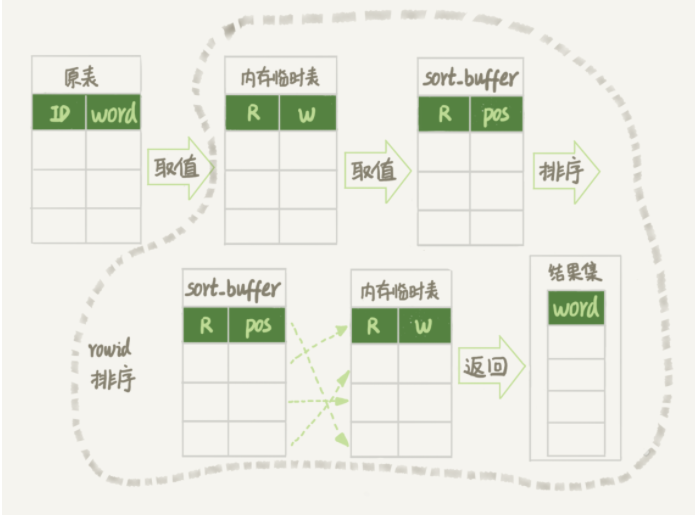
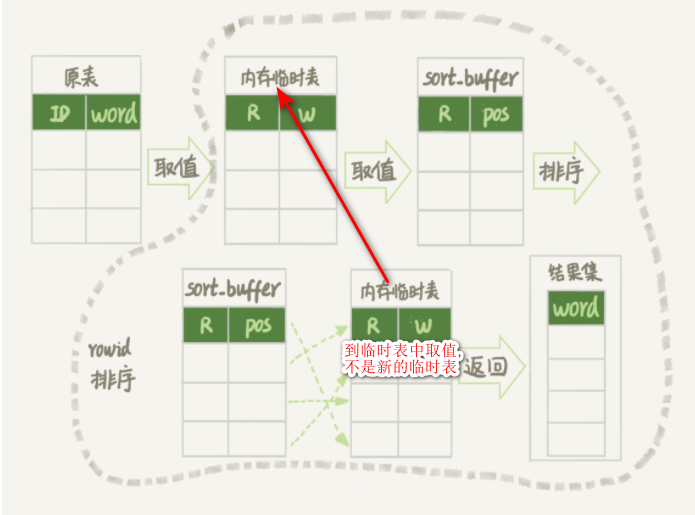
mysql/key: add group by flow and opt practice

Changed region(s): [[0.4835, 0.6524, 0.695, 0.7456], [0.423, 0.2175, 0.5741, 0.5592], [0.3928, 0.1553, 0.423, 0.2175]]

diff --git a/language/mysql/v2/keyflow/08.limit.md b/language/mysql/v2/keyflow/08.limit.md
@@ -3,17 +3,17 @@
 1. 原因
 
    - limit 100000, 20 的意思扫描满足条件的 100020 行(回表的){**可以查看 sql 的读取数据页的数量**}, 扔掉前面的 100000 行, 返回最后的 20 行
-   - 大量的时间都花费在随机 IO[回表]上: 尤其查询偏移大于**10 万**以后查询时间急剧增加
+   - 大量的时间都花费在随机 io[回表]上: 尤其查询偏移大于**10 万**以后查询时间急剧增加
 
    ```sql
    -- limit 大数: 慢 & 污染buffer pool
    select index_name,count(*)
-   from information_schema.INNODB_BUFFER_PAGE
-   where INDEX_NAME in('val','primary') and TABLE_NAME like '%test%'
+   from information_schema.innodb_buffer_page
+   where index_name in('val','primary') and table_name like '%test%'
    group by index_name;
    ```
 
-2. 解决方案: `覆盖索引-数据ID` **利用延迟关联或者子查询优化超多分页场景**
+2. 解决方案: `覆盖索引-数据id` **利用延迟关联或者子查询优化超多分页场景**
 
    - limit 默认会加载所有数据并过滤掉前面的 10w 行, 只取 20 行: 不是很好
    - solution01: 使用条件过滤{将 limit 转换为过滤条件}
@@ -24,29 +24,29 @@
 
    ```sql
    -- 慢 & 加载了很多热点不是很高的数据页到buffer pool, 会造成buffer pool的污染, 占用buffer pool的空间
-   SELECT id, title, ico, create_time, create_user
-   FROM article_copy1
+   select id, title, ico, create_time, create_user
+   from article_copy1
    where `status` = '1'
-   ORDER BY id DES LIMIT 100000, 10
+   order by id des limit 100000, 10
 
    -- solution01: 将上一次的最大的id传递给前端
-   SELECT id, title, ico, create_time, create_user
-   FROM article_copy1
-   WHERE `status` = '1' and id < 2155652
-   ORDER BY id DESC
-   LIMIT 10;
+   select id, title, ico, create_time, create_user
+   from article_copy1
+   where `status` = '1' and id < 2155652
+   order by id desc
+   limit 10;
 
-   SELECT id, title, ico, create_time, create_user
-   FROM article_copy1
-   WHERE `status` = '1' and id >= (SELECT id FROM article_copy1  WHERE `status` = '1' ORDER BY id DESC LIMIT 100000, 1)
-   ORDER BY id DESC
-   LIMIT 10
+   select id, title, ico, create_time, create_user
+   from article_copy1
+   where `status` = '1' and id >= (select id from article_copy1  where `status` = '1' order by id desc limit 100000, 1)
+   order by id desc
+   limit 10
 
 
-   SELECT id, title, ico, create_time, create_user
-   FROM article_copy1 c1
-   join (SELECT id FROM article_copy1  WHERE `status` = '1' ORDER BY id DESC LIMIT 100000, 1) t on t.id=c1.id
-   WHERE `status` = '1'
-   ORDER BY id DESC
-   LIMIT 10
+   select id, title, ico, create_time, create_user
+   from article_copy1 c1
+   join (select id from article_copy1  where `status` = '1' order by id desc limit 100000, 1) t on t.id=c1.id
+   where `status` = '1'
+   order by id desc
+   limit 10
    ```

diff --git a/language/mysql/v2/keyflow/03.orderby.md b/language/mysql/v2/keyflow/03.orderby.md
@@ -45,6 +45,7 @@
      7. 按照排序结果取前 10 行返回给客户端。
 
      ![avatar](/static/image/mysql/mysql-key-orderby-mem-flow.png)
+     ![avatar](/static/image/mysql/mysql-key-orderby-mem-flow-v2.png)
 
    - 过程中 sort_buffer 如果满了则会使用 `磁盘临时文件辅助排序`: **optimzier_trace's number_of_tmp_files**
      ![avatar](/static/image/mysql/mysql-key-orderby-optra-disk.png)
@@ -63,6 +64,7 @@
 
      - **`使用的是字段的定义最大长度, 而不是实际存储的长度`**
        ![avatar](/static/image/mysql/mysql-key-orderby-optra-rowid.png)
+       ![avatar](/static/image/mysql/mysql-key-orderby-optra-rowid-v2.png)
 
    - sql flow
 
